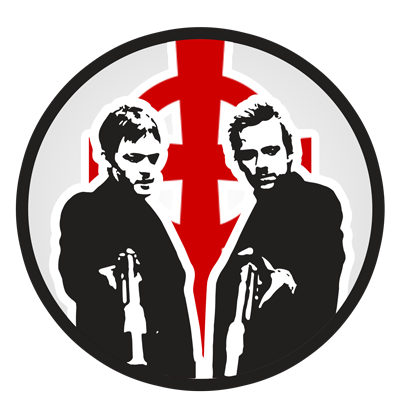
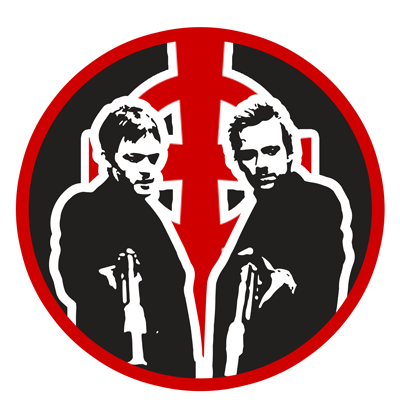
chore(assets): dark artwork for Saints, Suh girls and Harambe
Assets
- New light AND dark chat crests for the Boondock Saints; new dark crests
  for Suh girls and Harambe.
- Icons cut from those crests so each icon matches its crest: Saints light
  (its old icon predated the new artwork and measured 29.31/255 off),
  Saints dark, Suh dark. Harambe's supplied dark icon already matched its
  crest at 0.75/255 and is used as-is.

Every derived icon lands within 0.28/255 of its crest downscaled, the same
relationship the existing light pairs already had.

Stories
- The two stroke stories in TeamIconCell collapse into one. Giving Saints
  and Suh an iconDark removes both from the stroke set by construction, and
  they were the last subjects for default-white and custom-colour
  respectively. The whole stroke set is now ONE franchise — Swiftie 4 Life,
  and only because it opts in at 91% legible — so StrokeCustomColor is
  deleted rather than repointed a fifth time (Swiftie's #ffffff is the
  default hue, so the story would have duplicated its sibling).
- No franchise can reach the true default-white branch any more: all four
  the manifest still flags opt out with iconStrokeDark: false. That branch
  is covered synthetically in tests/broadcast-crest.test.ts (#691).

Trigger list follows the stories: saints.png and suh.png out, swift.png in.

Stroke manifest 5 -> 4; emitted strokes 4 -> 1.

diff --git a/stories/theming/TeamIconCell.stories.ts b/stories/theming/TeamIconCell.stories.ts
@@ -50,10 +50,18 @@ import { themeModes } from '../../.storybook/modes';
  * custom-stroke and Running down the Dream off default-white while this branch
  * was open, and both stories kept passing while testing the wrong thing.
  *
- * As of Sept 2026, after that sweep: custom stroke has exactly ONE team left
- * (No Soup For You) and default white has three (Harambe, Badd Boys, Boondock
- * Saints — all AFL). If the sweep reaches those, the branch loses its last
- * representative and the fix is a synthetic fixture, not a repoint.
+ * The sweep has since reached all of them. As of the end of Sept 2026 the
+ * ENTIRE stroke set is one franchise — Swiftie 4 Life, and only because it
+ * opts IN at 91% legible. Default white has NO team left (the four the
+ * manifest still flags all opt out with `iconStrokeDark: false`), and custom
+ * colour has none either, since Swiftie's `#ffffff` is the default hue.
+ *
+ * So the pool is not shrinking any more; it has essentially run out. The two
+ * stroke stories here collapsed into one, and the branch coverage moved to
+ * synthetic fixtures in `tests/broadcast-crest.test.ts`, which do not depend on
+ * a franchise staying un-arted. If Swiftie ever gains an `iconDark`, this story
+ * has nothing to point at either — delete it rather than pointing it at a crest
+ * that no longer strokes.
  */
 export default {
   title: 'Theming/TeamIconCell',
@@ -94,43 +102,39 @@ export const DarkSwapAvailableAfl = {
 };
 
 /**
- * The DEFAULT WHITE STROKE branch. A crest with no dark variant that the
- * manifest measured as illegible on a dark card, and whose team sets no
- * `iconStrokeDark` — so it falls through to `DEFAULT_CREST_STROKE_COLOR`. Dark
- * mode must show the same artwork carrying a white outline.
+ * THE STROKE, and there is now only one franchise left wearing one.
+ *
+ * A crest with no dark variant gets an outline so it does not dissolve into a
+ * dark card. Swiftie 4 Life is the last franchise that renders one: its
+ * `iconStrokeDark: "#ffffff"` is a config OPT-IN (the measurement scores it 91%
+ * legible and never flagged it), and white happens to be the same hue the
+ * shared default rule uses, so this story shows exactly what the default branch
+ * looks like too.
+ *
+ * **No franchise can reach the true default branch any more.** It needs a team
+ * that the manifest flagged AND that declares no colour; all four flagged teams
+ * left (Minty Fresh, Ditka, Cowboy Up, Dark Magicians) set `iconStrokeDark:
+ * false`, so they opt out instead. There is nothing to point a separate
+ * default-white story at — `tests/broadcast-crest.test.ts` covers that branch
+ * synthetically for the same reason.
+ *
+ * A companion `StrokeCustomColor` story lived here until the dark-artwork
+ * sweep took its subject for the fourth time (The Show, then No Soup For You,
+ * then Suh girls, each on gaining an `iconDark`). It was deleted rather than
+ * repointed a fifth time: Swiftie is the only franchise left declaring a
+ * colour, and `#ffffff` is the default hue spelled differently, so the story
+ * would have been visually identical to this one.
  *
  * The swap and the stroke are mutually exclusive by construction: the manifest
  * and `withStrokeColors` both exclude any team with an `iconDark`, so a crest
- * can never get both.
+ * can never get both. That is also why this story keeps losing subjects — and
+ * why a franchise named here gaining dark artwork silently turns it into a swap
+ * story that still passes. Check by hand.
  */
 export const StrokeDefaultWhite = {
   args: {
-    icon: '/assets/afl/icons/saints.png',
-    name: 'The Boondock Saints',
-  },
-};
-
-/**
- * The CUSTOM STROKE COLOR branch. Suh girls, one cup declares
- * `iconStrokeDark: "#ff769f"`, so it gets its own rule rather than joining the
- * shared white one — a crest whose silhouette reads better against its own
- * brand color than against white.
- *
- * This story has now been repointed TWICE by the dark-artwork sweep, because
- * giving a franchise a real `iconDark` removes it from the stroke set by
- * construction: it was on The Show until #685, then on No Soup For You until
- * the icon batch that followed. Both times the story kept passing while
- * silently testing the swap branch instead — the suite cannot catch this, so
- * check it by hand whenever a franchise named here gains dark artwork.
- *
- * Suh girls and Swiftie 4 Life are the two teams left on this branch. Prefer
- * Suh: Swiftie's `#ffffff` is the default hue spelled differently, so a reader
- * cannot tell its rule apart from the shared white one by looking.
- */
-export const StrokeCustomColor = {
-  args: {
-    icon: '/assets/afl/icons/suh.png',
-    name: 'Suh girls, one cup',
+    icon: '/assets/afl/icons/swift.png',
+    name: 'Swiftie 4 Life',
   },
 };
 
